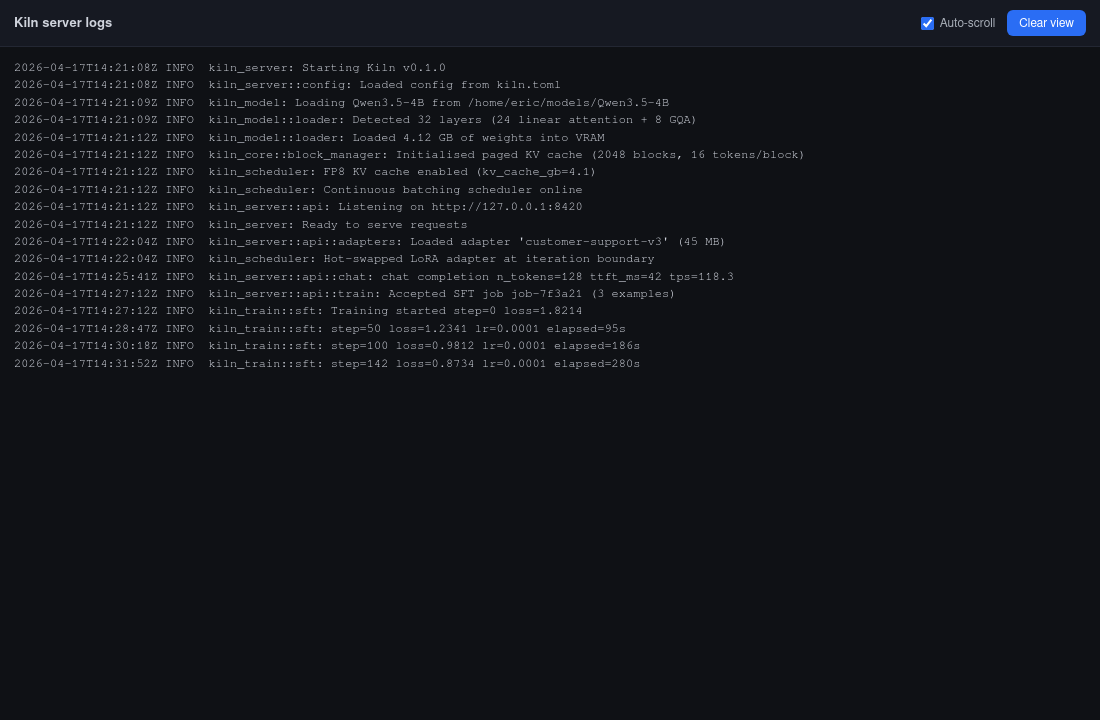
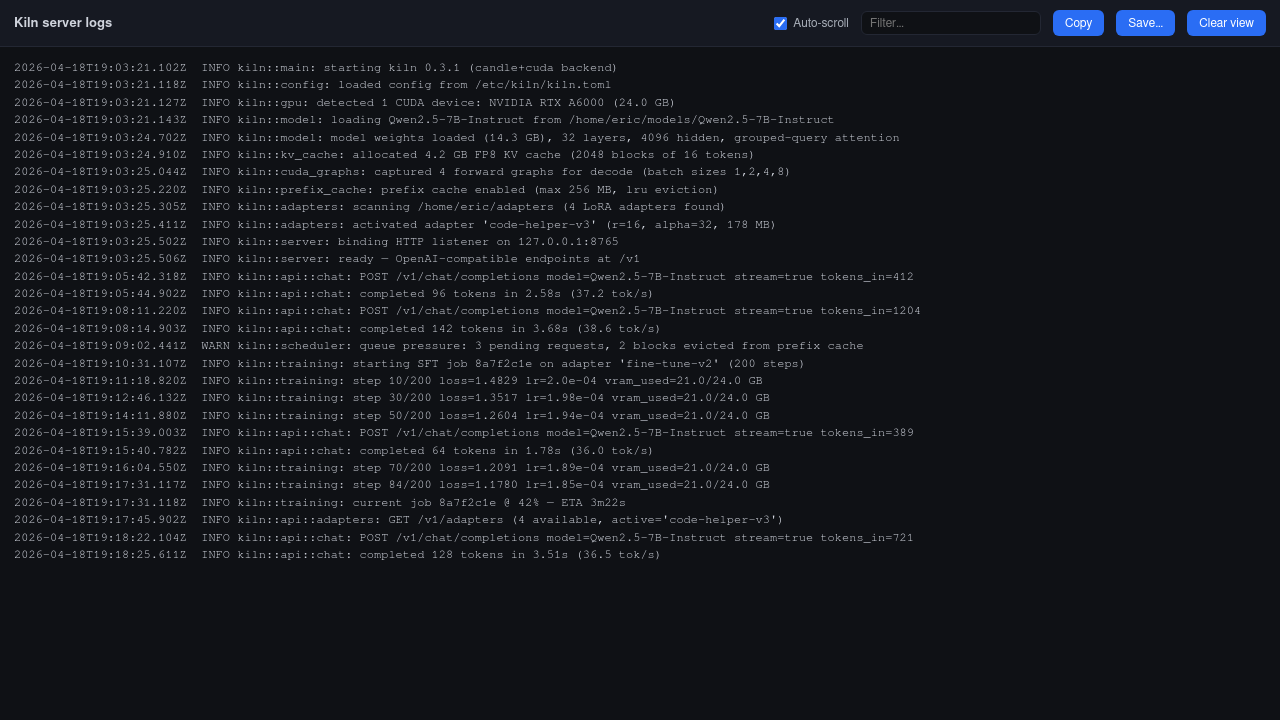
desktop: refresh README screenshots and dashboard description
The previous screenshots were captured before the toolbar gained the
live state badge, Stop Server, model path, VRAM budget, active LoRA
adapter pill, training status pill, OpenAI base URL display, and
Check for Updates. Regenerated all three PNGs and tightened the
dashboard description in README.md and desktop/README.md to match.

diff --git a/desktop/README.md b/desktop/README.md
@@ -23,7 +23,7 @@ The desktop installer bundles only the wrapper — the `kiln` server binary and 
 - **Crash restart** with exponential backoff, and a clear error state surfaced in the tray.
 - **System tray icon** with status states: stopped, starting, running, training-active, error.
 - **Right-click menu** — Open Dashboard, Settings, Start/Stop Server, View Logs, Quit.
-- **Dashboard window** — embeds the kiln server's built-in `/ui` dashboard via a webview iframe.
+- **Dashboard window** — toolbar shows server state, model path, VRAM budget, active LoRA adapter, training status, and the OpenAI base URL with a one-click copy. The kiln server's built-in `/ui` is embedded below via a webview iframe.
 - **Settings window** — model path, host, port, adapter directory, inference memory fraction, FP8 KV cache, CUDA graphs, prefix cache, speculative decoding, auto-start, auto-restart, launch-at-login. Persisted via `tauri-plugin-store`.
 - **Log viewer** — tails captured stdout/stderr lines from the ring buffer with auto-scroll and clear-view.
 - **Health and training polling** — hits `/v1/health` and `/v1/train/status` and drives the tray icon state.

diff --git a/README.md b/README.md
@@ -229,7 +229,7 @@ Kiln Desktop is a system-tray app that wraps the `kiln` server for people who do
 
 The installer bundles the desktop wrapper only. You still need to install the `kiln` server binary and download model weights separately — see [QUICKSTART.md](QUICKSTART.md). Point the app at the `kiln` binary and model path from Settings on first launch.
 
-**Dashboard** — embeds the kiln `/ui` web dashboard in a native window.
+**Dashboard** — toolbar shows server state, model path, VRAM budget, active LoRA adapter, training status, and the OpenAI base URL with a one-click copy. The kiln server's `/ui` is embedded below.
 
 ![Dashboard](docs/desktop/dashboard.png)
 
